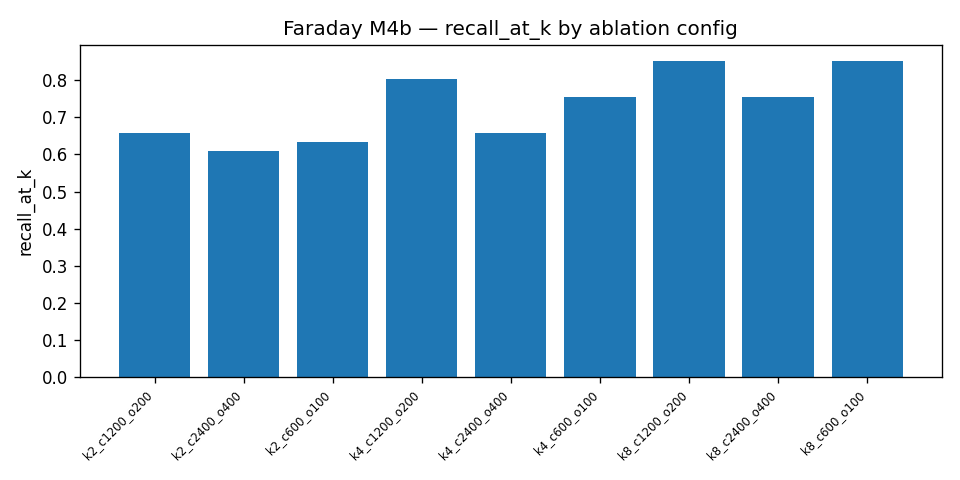
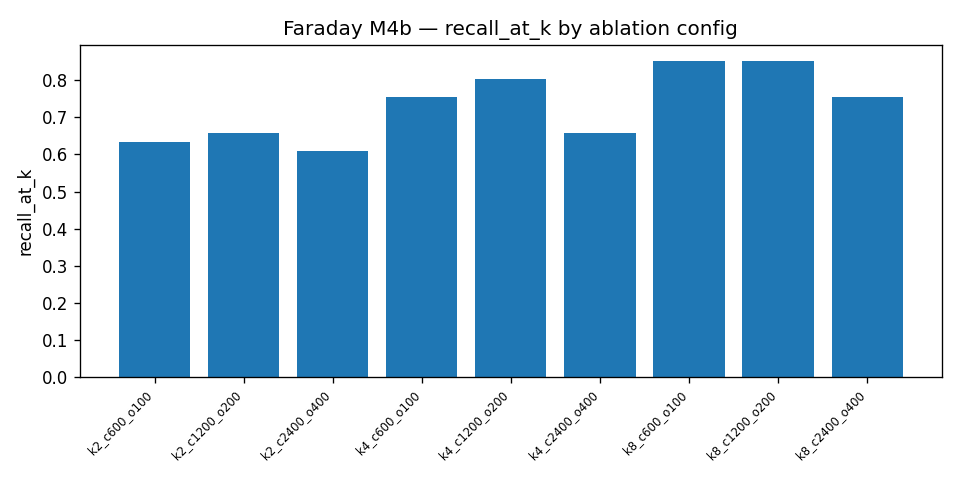
refactor(m4b): order scorecard + ablation plot by (top_k, chunk_size)
render_ablation and make_scorecard sorted config slugs alphabetically, so
within each top_k the bars/rows read c1200, c2400, c600. Add _ablation_order
(sort by parsed top_k then chunk_size) and use it in both, so each group
reads c600 -> c1200 -> c2400 -- the c1200 peak and c2400 dip are now visible
in every top_k triple.

Regenerated scorecard.md + ablations.png from the frozen judge cache (no Pi
run, no API re-spend); the data is identical apart from row order.

diff --git a/tests/test_eval_report.py b/tests/test_eval_report.py
@@ -1,6 +1,7 @@
 from faraday.eval.dataset import EvalItem
 from faraday.eval.judge import JudgeVerdict
 from faraday.eval.report import (
+    _ablation_order,
     abstention_cross_check,
     judge_rows,
     load_or_classify_abstentions,
@@ -66,6 +67,21 @@ def test_render_ablation_writes_png(tmp_path):
     out = tmp_path / "ablations.png"
     render_ablation(per_config, out)
     assert out.exists() and out.stat().st_size > 0
+
+
+def test_ablation_order_sorts_by_topk_then_chunksize():
+    # Alphabetical sort gives c1200, c2400, c600 within each top_k; we want
+    # ascending chunk size (c600, c1200, c2400) so the plot/scorecard read cleanly.
+    per_config = {s: {} for s in [
+        "k8_c2400_o400", "k2_c600_o100", "k4_c1200_o200", "k2_c2400_o400",
+        "k8_c600_o100", "k4_c600_o100", "k2_c1200_o200", "k8_c1200_o200",
+        "k4_c2400_o400",
+    ]}
+    assert _ablation_order(per_config) == [
+        "k2_c600_o100", "k2_c1200_o200", "k2_c2400_o400",
+        "k4_c600_o100", "k4_c1200_o200", "k4_c2400_o400",
+        "k8_c600_o100", "k8_c1200_o200", "k8_c2400_o400",
+    ]
 
 
 class BoomJudge:

diff --git a/src/faraday/eval/report.py b/src/faraday/eval/report.py
@@ -74,6 +74,16 @@ def abstention_cross_check(rows: list[dict], items_by_id: dict[str, EvalItem],
     return {"abstention_judged": acc, "disagreements": disagreements}
 
 
+def _ablation_order(per_config: dict[str, dict]) -> list[str]:
+    """Order config slugs by (top_k, chunk_size) ascending, so each top_k group
+    reads c600 -> c1200 -> c2400 by size rather than alphabetically (which gives
+    c1200, c2400, c600). Keeps the scorecard table and ablation plot consistent."""
+    def key(slug: str) -> tuple[int, int]:
+        k, c = slug.split("_")[:2]          # "k4", "c1200"
+        return (int(k[1:]), int(c[1:]))
+    return sorted(per_config, key=key)
+
+
 def make_scorecard(per_config: dict[str, dict]) -> str:
     """Markdown table, one row per config, columns = the metric keys present."""
     cols = ["recall_at_k", "mrr", "citation_validity", "abstention_accuracy",
@@ -81,7 +91,7 @@ def make_scorecard(per_config: dict[str, dict]) -> str:
     header = "| config | " + " | ".join(c.replace("_at_k", "@k") for c in cols) + " |"
     sep = "|" + "---|" * (len(cols) + 1)
     lines = ["# Faraday M4b — RAG Eval Scorecard", "", header, sep]
-    for slug in sorted(per_config):
+    for slug in _ablation_order(per_config):
         m = per_config[slug]
         cells = [f"{m.get(c, float('nan')):.3f}" for c in cols]
         lines.append(f"| {slug} | " + " | ".join(cells) + " |")
@@ -91,7 +101,7 @@ def make_scorecard(per_config: dict[str, dict]) -> str:
 def render_ablation(per_config: dict[str, dict], out_path: Path,
                     metric: str = "recall_at_k") -> None:
     out_path.parent.mkdir(parents=True, exist_ok=True)
-    slugs = sorted(per_config)
+    slugs = _ablation_order(per_config)
     values = [per_config[s].get(metric, float("nan")) for s in slugs]
     fig, ax = plt.subplots(figsize=(8, 4))
     ax.bar(range(len(slugs)), values)

diff --git a/results/evals/scorecard.md b/results/evals/scorecard.md
@@ -2,12 +2,12 @@
 
 | config | recall@k | mrr | citation_validity | abstention_accuracy | abstention_judged | faithfulness | correctness |
 |---|---|---|---|---|---|---|---|
+| k2_c600_o100 | 0.634 | 0.573 | 1.000 | 0.851 | nan | nan | nan |
 | k2_c1200_o200 | 0.659 | 0.585 | 1.000 | 0.872 | nan | nan | nan |
 | k2_c2400_o400 | 0.610 | 0.549 | 1.000 | 0.894 | nan | nan | nan |
-| k2_c600_o100 | 0.634 | 0.573 | 1.000 | 0.851 | nan | nan | nan |
+| k4_c600_o100 | 0.756 | 0.610 | 1.000 | 0.872 | nan | nan | nan |
 | k4_c1200_o200 | 0.805 | 0.628 | 1.000 | 0.872 | 0.915 | 4.220 | 3.951 |
 | k4_c2400_o400 | 0.659 | 0.563 | 1.000 | 0.872 | nan | nan | nan |
-| k4_c600_o100 | 0.756 | 0.610 | 1.000 | 0.872 | nan | nan | nan |
+| k8_c600_o100 | 0.854 | 0.626 | 1.000 | 0.872 | nan | nan | nan |
 | k8_c1200_o200 | 0.854 | 0.636 | 1.000 | 0.872 | nan | nan | nan |
 | k8_c2400_o400 | 0.756 | 0.577 | 1.000 | 0.872 | nan | nan | nan |
-| k8_c600_o100 | 0.854 | 0.626 | 1.000 | 0.872 | nan | nan | nan |